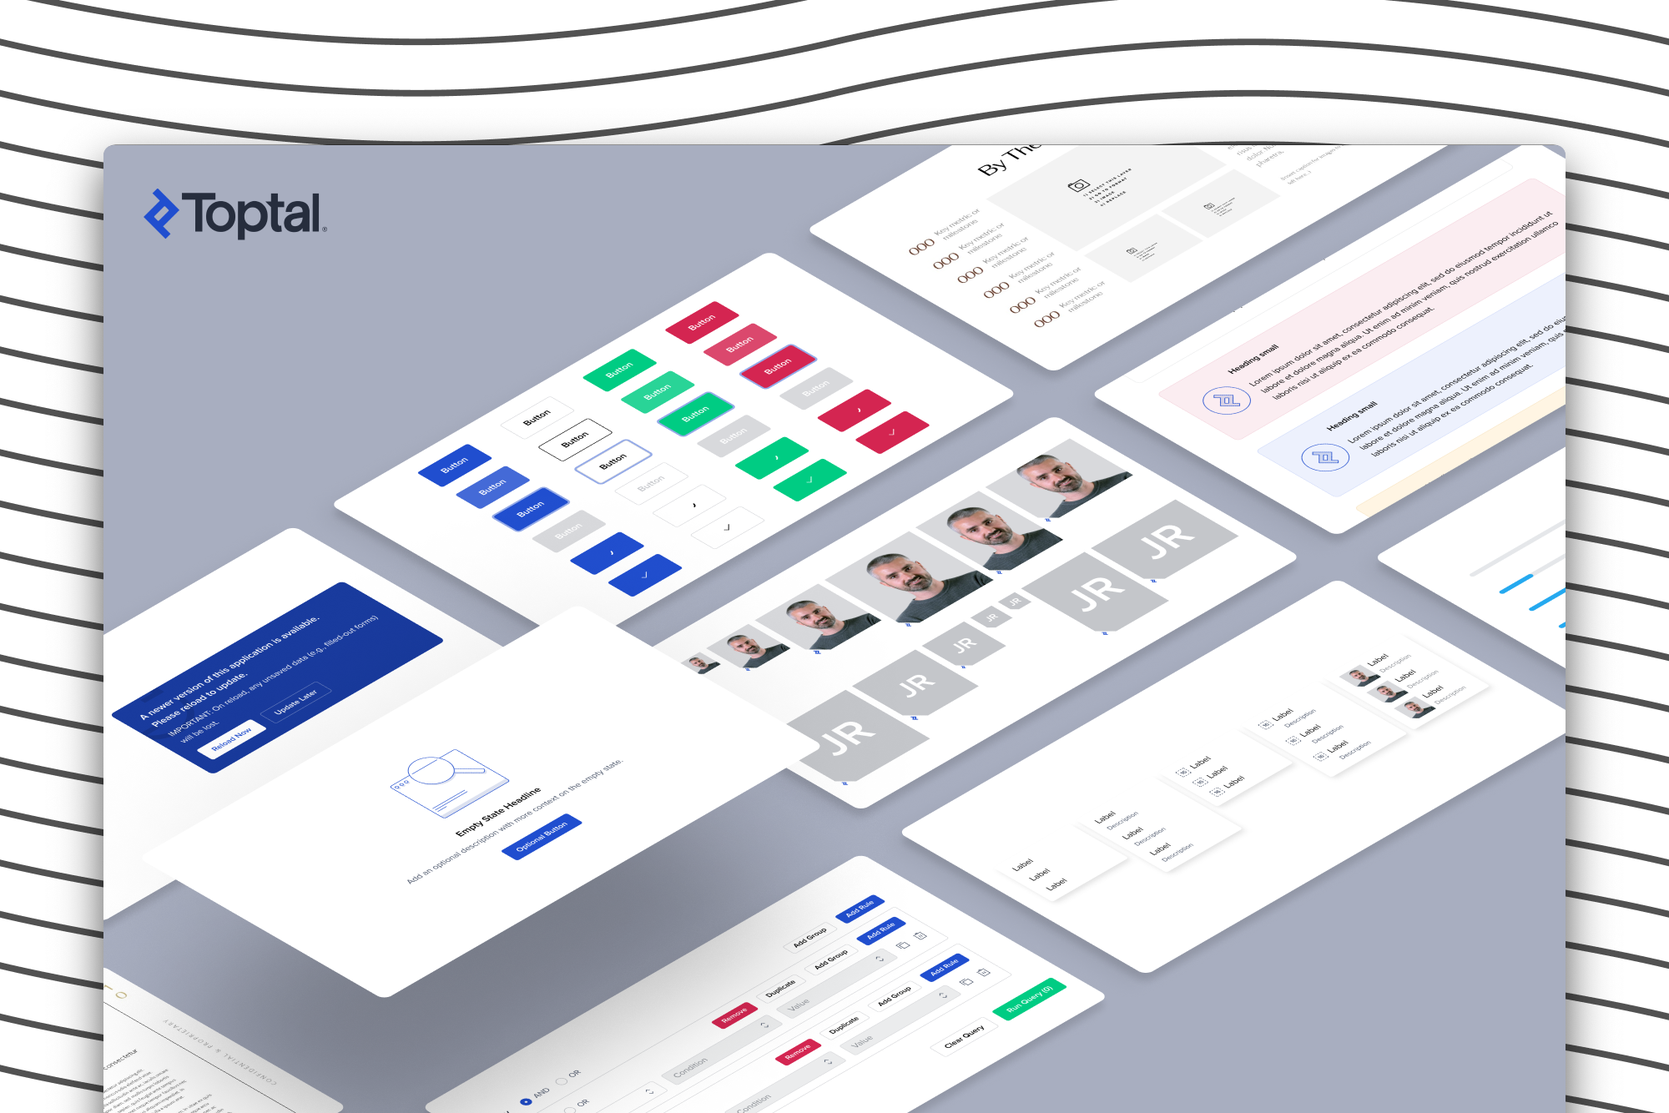
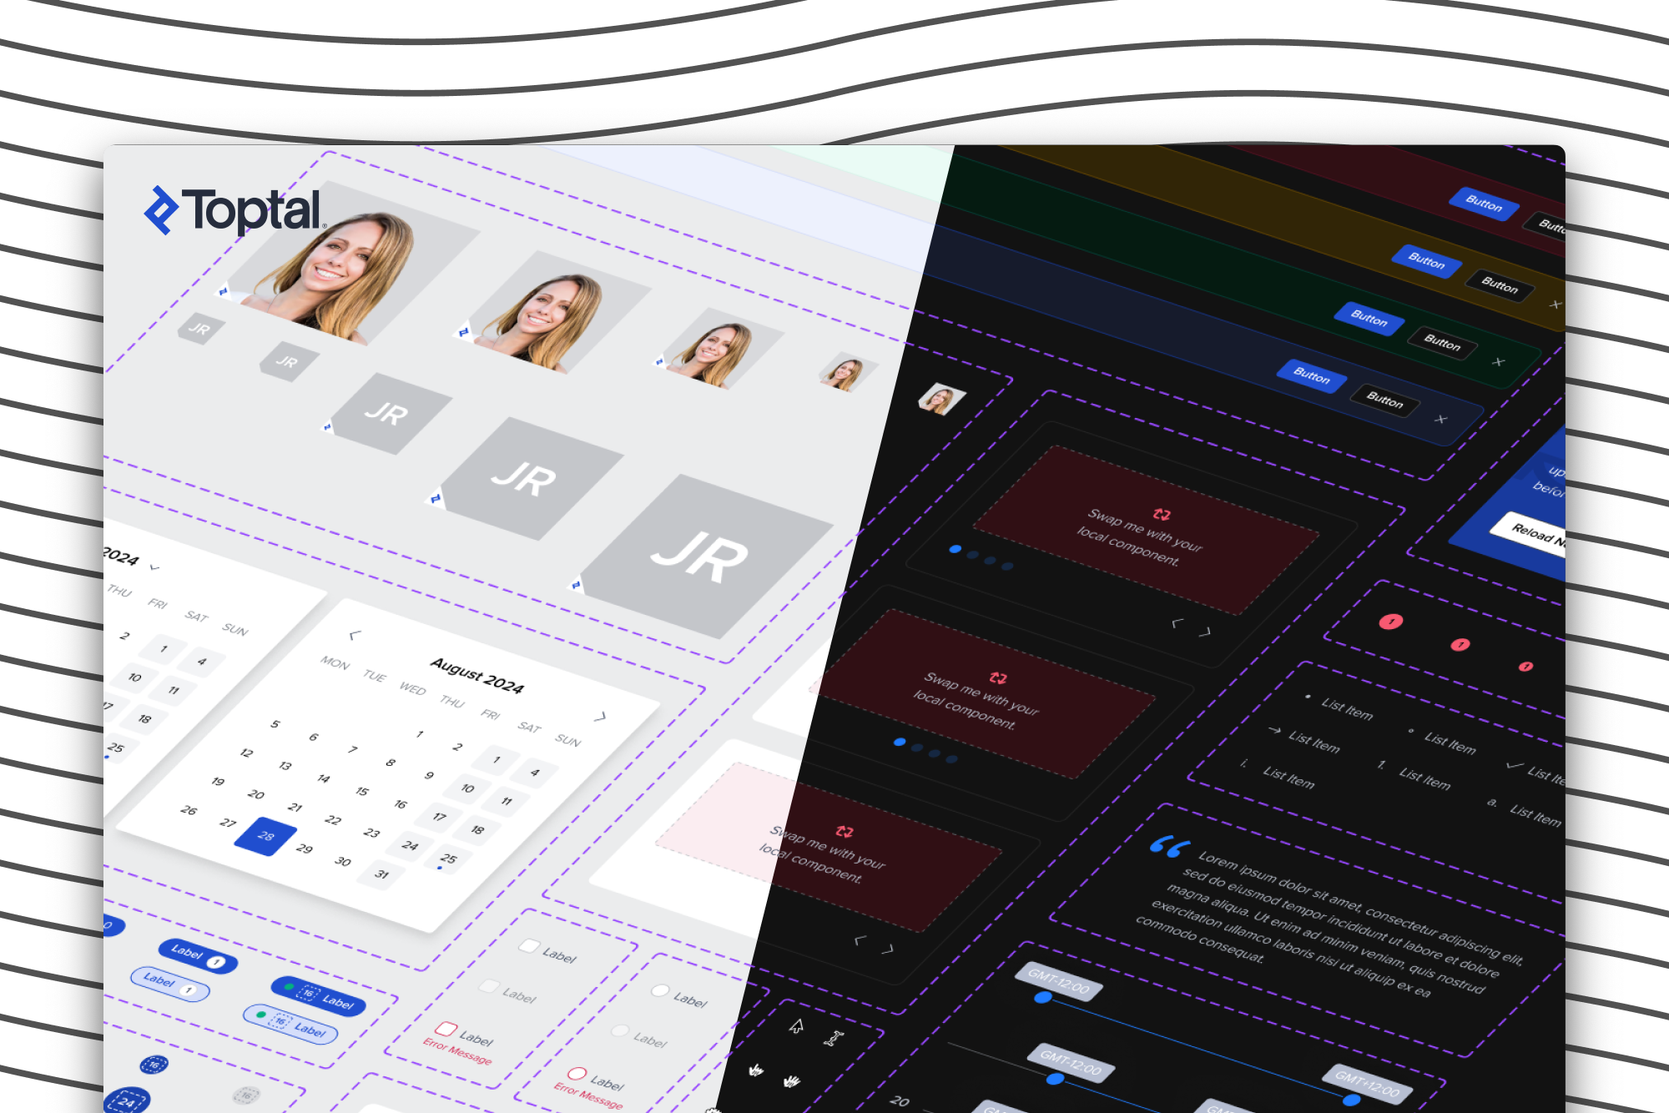
Hero changes imgs

diff --git a/folio_one_2.html b/folio_one_2.html
@@ -9,8 +9,8 @@
 	<meta http-equiv="X-UA-Compatible" content="IE=edge">
 	<title>Product Designer | Portfolio</title>
 	<meta name="viewport" content="width=device-width, initial-scale=1">
-	<meta name="description" content="Lead Experience Designer | Portfolio" />
-	<meta name="keywords" content="Designer, portfolio, experience, resume, user interface, mobile design, user experience, design services, product designer" />
+	<meta name="description" content="Senior Product Designer | Portfolio" />
+	<meta name="keywords" content="Designer, portfolio, design systems, user experience, resume, user interface, mobile design, experience, design services, product designer" />
 	<meta name="author" content="Matthew Vella" />
 
   	<!-- Facebook and Twitter integration -->
@@ -33,6 +33,8 @@
 	<link rel="stylesheet" href="css/animate.css">
 	<!-- Bootstrap CDN Icon Fonts-->
 	<link rel="stylesheet" href="https://cdn.jsdelivr.net/npm/bootstrap-icons@1.11.3/font/bootstrap-icons.min.css">
+	<!-- Lottie Animation library -->
+	<script src="https://cdnjs.cloudflare.com/ajax/libs/lottie-web/5.12.2/lottie.min.js" integrity="sha512-jEnuDt6jfecCjthQAJ+ed0MTVA++5ZKmlUcmDGBv2vUI/REn6FuIdixLNnQT+vKusE2hhTk2is3cFvv5wA+Sgg==" crossorigin="anonymous" referrerpolicy="no-referrer"></script>
     <!-- Google Fonts -->
     <link href="https://fonts.googleapis.com/css?family=Playfair+Display:400,700&display=swap" rel="stylesheet">
     <link href="https://fonts.googleapis.com/css?family=Abel&display=swap" rel="stylesheet">
@@ -89,8 +91,8 @@
 			<!-- Project Header -->
 			<div class="row text-center">
 				<div class="col-md-12">
-					<a href="https://appadvice.com/app/quitters-circle/981867763" target="_blank"><img src="images/logos/cl-logo-01.png" alt="Audi Logo" class="project-logo to-animate"></a>
-					<h1 class="to-animate">Revolutionizing Audi’s Digital Presence</h1>
+					<a href="http://toptal.com/" target="_blank"><img src="images/logos/cl-logo-10.png" alt="Toptal Logo" class="project-logo to-animate"></a>
+					<h1 class="to-animate">Building a Scalable System for the World's Top Talent Marketplace</h1>
 				</div>
 			</div>
 
@@ -98,12 +100,8 @@
 			<div class="row">
 				<div class="col-md-12">
 					<div class="project-hero to-animate">
-						<div class="col-md-12 to-animate video-container">
-							<video autoplay loop muted playsinline>
-								<source src="images/project_2_2.mp4" type="video/mp4" style="width: 100%; max-width: 1170px;">
-								<source src="images/project_2_2.webm" type="video/webm" style="width: 100%; max-width: 1170px;">
-								Your browser does not support the video tag.
-							</video>
+						<div class="col-md-12 to-animate text-center project-hero">
+							<img style="max-width: 100%;" src="images/project-0@2x.png" alt="hero base design system"/>
 						</div>
 					</div>
 				</div>
@@ -114,24 +112,24 @@
 			<div class="row">
 				<div class="col-md-3 text-left">
 					<p class="to-animate">My Responsibilities</p>
-					<p class="to-animate lighter"> Usability Audit <br/> UI/UX Design <br/> Prototyping <br/> Motion UI <br/> Documentation</p>
+					<p class="to-animate lighter"> Component Architecture <br/> Managed Libraries <br/> Documentation <br/> Governance</p>
 				</div>
 				<div class="col-md-3 text-left">
 					<p class="to-animate">Tools</p>
-					<p class="to-animate lighter">Sketch <br/> Miro <br/> Audi Design System <br/> Jira</p>
+					<p class="to-animate lighter">Figma ~ Figjam <br/> Jira ~ Confluence <br/> Storybook ~ Github <br/> Token Studio <br/></p>
 				</div>
 				<div class="col-md-3 text-left">
-					<p class="to-animate">Role</p>
-					<p class="to-animate lighter"> Senior UI/UX Designer</p>
+					<p class="to-animate">Roles</p>
+					<p class="to-animate lighter">Lead Product Designer <br/> Product Manager</p>
 				</div>
 				<div class="col-md-3 text-left">
 					<p class="to-animate">Project Length</p>
-					<p class="to-animate lighter">6 months</p>
+					<p class="to-animate lighter">2½ years</p>
 				</div>
 			</div>
 		</div>
 
-		<div class="divider-line"></div>
+		<div class="divider-line to-animate"></div>
 
 		<div class="row-spacer-m8"></div>
 	
@@ -140,19 +138,16 @@
 				<div class="col-md-2"></div>
 				<div class="col-md-8 to-animate">
 					<h2>Background</h2>
-					<p>In 2020, the COVID-19 pandemic forced Audi to close its showrooms, disrupting the car-buying experience. To adapt, Audi Business Innovation (ABI) set out to develop a digital platform that would recreate the showroom experience, seamlessly integrating online and offline touchpoints for a more cohesive audi purchasing journey.</p>
-					<p>I, together with a full-stack product team from Modus Create, joined forces with Audi Business Innovation, to bring this vision to life and redefine how customers explore and customize their Audi vehicles.</p>
+					<p>As Toptal experienced hypergrowth through 2022, it became a business requirement that the product practice had to scale to keep up with evolving company initiatives. While the early design team had established a foundational system, they were struggling with scaling it and bringing the much needed adoption across all teams and bring design consistency across their three main user-facing portals (Staff, Client, and Talent Portals), multiple internal tools (CMS Tool, TopTeam, TopTaste, TopShop), external tools (Time Tracker, Screenshot app), and numerous new initiatives.</p>
+					<p>With so many projects running in parallel, a lack of cohesion led to frequent custom designs that carried over into the implementation phase, increasing costs and technical debt, and reducing the ROI for every product-focused team member. Maintaining consistency became an ever-greater challenge as the company’s ecosystem continued to expand.</p>
 					<div class="row-spacer-m8"></div>
-					<h2>Objectives</h2>
-					<p>My objectives was to design and deliver, end-to-end user flows for two key feature applications: [1] the Automotive Visualization app, which enhanced the 3D car customization experience. [2] Overhauling the Audi & Partner Dealer Search, making it easier for customers to find dealerships, explore services, and plan their visit.</p>
-
 					<div class="row-spacer-m4"></div>
-
-					<h4>Responsibilities</h4>
-					<li>Gather and align stakeholder requirements across product, engineering, and marketing teams.</li>
-					<li>Participate in SAFe ceremonies (PI Planning, Sprint Planning, Standups, Reviews, Retros).</li>
-					<li>Collaborate closely with 3D engineers to embedd the automotive visualization experience.</li>
-					<li>Conduct UX audits and identify usability improvements for the Dealer Search flow.</li>
+					<h4>Key Achievements</h4>
+					<li>Increased component adoption rate from a low 18% to 60% across talent portal feature teams within the first six months.</li>
+					<li>Reduced the number of custom components created outside the system by 68%.</li>
+					<li>Implemented adoption metrics on Grafana, tracking component usage by platform, css overrides, and achieved a 100% visibility into system performance.</li>
+					<li>A new product initiative (Hireglobal) was build from scratch in just 2 months, using 92% of components from the design system.</li>
+					<li>Reduced component requests by 20% by enabling designers and developers to contribute directly to the system.</li>
 				</div>
 			</div>
 
@@ -160,7 +155,18 @@
 
 			<div class="row">
 				<div class="col-md-12 to-animate text-center project-hero">
-					<img style="max-width: 100%;" src="images/projects/qc/folio_four_01@2x.png" alt="emotions"/>
+						<div id="animation-container" style="width: 554px; height: 430px;">
+							<script>
+								var animation = lottie.loadAnimation({
+								  container: document.getElementById('animation-container'), // The container to render the animation
+								  renderer: 'svg', // Render type (svg, canvas, or html)
+								  loop: true, // Animation loop
+								  autoplay: true, // Start playing automatically
+								  path: 'animation/project3_logo.json' // Path to your JSON file
+								});
+							</script>
+						</div>
+					
 				</div>
 			</div>
 
@@ -209,11 +215,11 @@
 		<div class="row">
 			<div class="col-md-6 to-animate text-center project-hero">
 				<figcaption class="image-caption">💡 Exploration flows that were not considered</figcaption>
-				<img style="max-width: 100%;" src="images/projects/qc/folio_four_02@2x.png" alt="quitter circle"/>
+				<img style="max-width: 100%;" src="images/projects/qc/folio_four_02@2x.png" alt="onboarding quitter circle"/>
 			</div>
 			<div class="col-md-6 to-animate text-center project-hero">
 				<figcaption class="image-caption">😐 The implementation for MVP launch</figcaption>
-				<img style="max-width: 100%;" src="images/projects/qc/folio_four_02b@2x.png" alt="quitter circle"/>
+				<img style="max-width: 100%;" src="images/projects/qc/folio_four_02b@2x.png" alt="onboarding quitter circle"/>
 			</div>
 		</div>
 
@@ -229,7 +235,7 @@
 
 					<div class="row">
 						<div class="col-md-12 to-animate text-center project-hero">
-							<img style="max-width: 100%;" src="images/projects/qc/folio_four_06@2x.png" alt="journey mapping"/>
+							<img style="max-width: 100%;" src="images/projects/qc/folio_four_06@2x.png" alt="gamified homepage"/>
 						</div>
 					</div>
 
@@ -265,6 +271,57 @@
 			<div class="row">
 				<div class="col-md-2"></div>
 				<div class="col-md-8 to-animate">
+					<h2>Smoke Log Flow</h2>
+					<p>The Smoke Log was a crucial feature designed to encourage daily engagement by helping users log their smoking activities. By consistently tracking when, where, and why they smoked, users could reflect on their habits and recognize patterns that might be hindering their progress.</p>
+					<p>This log wasn’t just about self-awareness, it also served as a valuable tool for professional guidance. When consulting a healthcare professional, users could review their smoking history together and identify lifestyle, social, or emotional triggers. This data driven approach allowed for personalized advice and actionable changes.</p>
+				</div>
+			</div>
+		</div>
+
+		<div class="row-spacer-m8"></div>
+
+		<div class="row">
+			<div class="col-md-12 to-animate text-center project-hero">
+				<img style="max-width: 100%;" src="images/projects/qc/SmokeLog@2x.png" alt="visual ui kit"/>
+			</div>
+		</div>
+
+		<div class="row-spacer-m8"></div>
+
+		<div class="container">
+			<div class="row">
+				<div class="col-md-2"></div>
+				<div class="col-md-8 to-animate">
+					<h2>A design flaw that led to no logs</h2>
+					<p>When the MVP was launched, a small group of users began signing up through Pfizer’s medical partners. Early adoption showed promise, however users encountered a critical issue. There was a low completion rate on the most essential feature which is the Smoke Log.</p>
+					<p>The smoke log was designed to be a daily routine for self-awareness and behavior change. Our roadmap already included plans to strengthen habit-forming UX, but we hadn’t anticipated such a fundamental flaw in the existing design.</p>
+					<p>Usability testing and behavior analytics revealed the root of the problem: most users simply couldn’t find the Smoke Log. The icon representing it was often mistaken for the app’s logo, making it unclear that it was an interactive feature.</p>
+					<li>80% of the users failed to complete the smoke log task on their first attempt.</li>
+					<li>Tap through rate on the Smoke Log icon was low, due to poor visual clarity.</li>
+					<li>Time on task increased, users spending long time trying to figure out what the icon represented before taking any action.</li>
+					
+					<div class="row-spacer-m4"></div>
+					
+					<h3>Action items</h3>
+					<p>This led us on improving engagement through push notifications, testing different messages and timings to remind users to log their activity and help boost completion rates.</p>
+					<p>I also redesigned the top navigation area and made the smoke log entry more clear.The settings icon was replaced with a menu icon and moved to the left for less important actions. The Smoke Log was renamed to Log Entry, moved to the right, and made easier to find.</p>
+				</div>
+			</div>
+
+			<div class="row">
+				<div class="col-md-12 to-animate text-center project-hero">
+					<img style="max-width: 100%;" src="images/projects/qc/folio_four_07@2x.png" alt="visual ui kit"/>
+				</div>
+			</div>
+
+		</div>
+
+		<div class="row-spacer-m8"></div>
+
+		<div class="container">
+			<div class="row">
+				<div class="col-md-2"></div>
+				<div class="col-md-8 to-animate">
 					<h2>Visual Direction & Consistency</h2>
 					<p>Pfizer had an established marketing identity, providing a strong foundation for Quitter’s Circle’s visual language. So, I  took what was there and built a UI Kit in Sketch to make sure the digital experience adheres to consistency and that it support a full range of interaction states, accessibility needs, and behavioral cues.</p>
 				</div>
@@ -277,8 +334,6 @@
 					<img style="max-width: 100%;" src="images/projects/qc/folio_four_03@2x.png" alt="visual ui kit"/>
 				</div>
 			</div>
-
-
 		</div>
 
 		
@@ -289,53 +344,63 @@
 
 	</section>
 	
-	<section id="fh5co-services" data-section="audi">
+	<section id="fh5co-explore" data-section="audi">
 		<div class="to-animate container">
 			<div class="row">
 				<div class="col-md-12 to-animate cardTestimonial">
-					<h2 class="to-animate testimonials">"A reliable teammate who consistently delivers beyond expectations and excels at solving complex design challenges."</h2>
-					<p>I had the pleasure of working with Matthew for a couple of months on the Audi Business Innovation projects, and a few key qualities stood out. Matthew is a naturally curious Product Designer with a passion for UI/UX, new technologies, and digital products. He is a great teammate—reliable, responsible, and consistently delivering beyond expectations. He also has a strong ability to tackle even the toughest design and product challenges, solving them with ease. It was truly a pleasure working with Matthew at Modus Create, and I hope our paths cross again in the future.</p>
+					<h2 class="to-animate testimonials">"A standout designer and leader, excelling in proactive problem-solving, precise documentation, and team collaboration."</h2>
+					<p>I had the pleasure of working with Matt, who led the design system at Toptal, and I can't speak highly enough of his contributions. Matt is a fantastic designer and collaborator. His documentation is precise and thorough, which has ensured consistency and clarity across projects. He's exceptional at managing the design team's needs while keeping a strong pulse on the business and product evolution.
+					<br/><br/>
+					What truly stands out about Matt is his proactive nature. He consistently delivers above expectations, pushing for solutions beyond the brief. His ability to anticipate and address challenges before they arise sets him apart as a leader. Beyond his technical skills, Matt is simply a great person to work with. He is approachable and dependable and uplifts the team around him.
+					</p>
 					<div class="profile">
-						<img src="images/avatars/dom_hiz.jpeg" alt="Dominik Hizar" class="avatar">
+						<img src="images/avatars/ale_dju.jpeg" alt="Alek Djuric" class="avatar">
 						<div class="info">
-							<div class="name">Dominik Hizar</div>
-							<div class="role">Senior Scrum Master</div>
+							<div class="name">Alek Djuric</div>
+							<div class="role">Director of Product Design</div>
 						</div>
 					</div>
 				</div>
 				<div class="col-md-12 to-animate cardTestimonial">
-					<h2 class="to-animate testimonials">"Matt is a highly skilled expert who brings fresh ideas and consistently improves his work. Communicative, open to feedback, and a pleasure to work with."</h2>
-					<p>Working with Matt is a pure pleasure. He is a real expert in his field. You can entrust him entirely with his part of the work. He always has new ideas of what can be improved. At the same time, he is very communicative, always willing to listen, and is open to feedback or suggestions. Above all of that, he is a great person overall.</p>
+					<h2 class="to-animate testimonials">"A truly talented and humble designer who transformed our design system"</h2>
+					<p>I had the pleasure of working with Matt on the Picasso Design System, where I served as an engineering manager, and Matt led the design efforts. Collaborating with Matt was an exceptional experience; he is not only a talented and experienced designer but also a humble and approachable team player.
+					<br/><br/>
+					Before Matt joined our team, we faced recurring issues with inconsistencies across our products due to misalignment on design standards. However, once Matt took charge, he effectively documented the design system and ensured product designers adhered to it. As a result, our inconsistencies diminished, and for the past year, I haven't encountered any issues.
+					<br/><br/>
+					Matt was a fantastic partner to the engineering team. He consistently considered our perspective, adapting designs to follow UI best practices while making them easier to implement. He was always available to answer questions, offering full support to my engineers.
+					<br/><br/>
+					I would gladly work with Matt again and highly recommend him for any design leadership role.</p>
 					<div class="profile">
-						<img src="images/avatars/kam_sol.jpeg" alt="Kamil Solomon" class="avatar">
+						<img src="images/avatars/ole_nec.jpeg" alt="Oleksandr Nechai" class="avatar">
 						<div class="info">
-							<div class="name">Kamil Solomon</div>
-							<div class="role">Full Stack Engineer</div>
+							<div class="name">Oleksandr Nechai</div>
+							<div class="role">Engineering Manager</div>
 						</div>
 					</div>
 				</div>
 				<div class="col-md-12 to-animate cardTestimonial">
-					<h2 class="to-animate testimonials">"Matthew is efficient, collaborative, and impactful designer—a true asset to Audi Business Innovation."</h2>
-					<p>Matthew has been a strong contributor to the Audi design team, working efficiently and fostering collaboration to refine ideas. He navigates ambiguity with ease, supports fellow designers, and elevates team efforts. His impact on Audi Business Innovation has been a revelation—I’d love to work with him again.</p>
+					<h2 class="to-animate testimonials">"Matthew is a skilled designer with strong Design Systems expertise, excellent collaboration skills, and a keen eye for detail. Highly recommended for his ability to balance UX and technical needs effectively."</h2>
+					<p>Matthew is a highly experienced designer with a solid understanding of Design Systems and exceptional Figma skills. His attention to detail and ability to self-organize made collaborating with him on the implementation of the design system with the engineering team a very positive experience.
+					<br/><br/>
+					He was able to work effectively with both business stakeholders and software engineers, balancing user experience needs with technical feasibility. In doing so, he successfully laid the foundation for an excellent and efficient Design System. I highly recommend Matthew to any company due to his strong soft skills and proven expertise.</p>
 					<div class="profile">
-						<img src="images/avatars/sin_sch.jpeg" alt="Sina Schmidt" class="avatar">
+						<img src="images/avatars/dio_sai.jpeg" alt="Diogo Saito Takeuchi" class="avatar">
 						<div class="info">
-							<div class="name">Sina Schmidt</div>
-							<div class="role">CX Designer</div>
+							<div class="name">Diogo Saito Takeuchi</div>
+							<div class="role">Technical Product Manager</div>
 						</div>
 					</div>
 				</div>
 				</div>
 			</div>
 		</div>
-	</section> 
+	</section>
         
 
 	<div id="fh5co-footer" role="contentinfo">
 		<div class="container">
 			<div class="row">
 				<div class="col-md-4 to-animate">
-					<h4 class="section-title">Menu</h4>
                     <h2 class="section-title"><a href="/">Home</a></h2>
 					<h2 class="section-title"><a href="process.html">Process</a></h2>
                     <br>

diff --git a/folio_four.html b/folio_four.html
@@ -9,8 +9,8 @@
 	<meta http-equiv="X-UA-Compatible" content="IE=edge">
 	<title>Product Designer | Portfolio</title>
 	<meta name="viewport" content="width=device-width, initial-scale=1">
-	<meta name="description" content="Lead Experience Designer | Portfolio" />
-	<meta name="keywords" content="Designer, portfolio, experience, resume, user interface, mobile design, user experience, design services, product designer" />
+	<meta name="description" content="Senior Product Designer | Portfolio" />
+	<meta name="keywords" content="Designer, portfolio, design systems, user experience, resume, user interface, mobile design, experience, design services, product designer" />
 	<meta name="author" content="Matthew Vella" />
 
   	<!-- Facebook and Twitter integration -->
@@ -358,7 +358,6 @@
 		<div class="container">
 			<div class="row">
 				<div class="col-md-4 to-animate">
-					<h4 class="section-title">Menu</h4>
                     <h2 class="section-title"><a href="/">Home</a></h2>
 					<h2 class="section-title"><a href="process.html">Process</a></h2>
                     <br>

diff --git a/index.html b/index.html
@@ -323,7 +323,6 @@
 		<div class="container">
 			<div class="row">
 				<div class="col-md-4 to-animate">
-					<h4 class="section-title">Some More</h4>
 					<h2 class="section-title"><a href="about.html">About Me</a></h2>
                     <h2 class="section-title"><a href="process.html">Process</a></h2>
                     <br>

diff --git a/about.html b/about.html
@@ -209,7 +209,6 @@
 		<div class="container">
 			<div class="row">
 				<div class="col-md-4 to-animate">
-					<h4 class="section-title">Menu</h4>
 					<h2 class="section-title"><a href="/">Home</a></h2>
                     <h2 class="section-title"><a href="process.html">Process</a></h2>
                     <br>

diff --git a/folio_three.html b/folio_three.html
@@ -395,7 +395,6 @@
 		<div class="container">
 			<div class="row">
 				<div class="col-md-4 to-animate">
-					<h4 class="section-title">Menu</h4>
                     <h2 class="section-title"><a href="/">Home</a></h2>
 					<h2 class="section-title"><a href="process.html">Process</a></h2>
                     <br>

diff --git a/process.html b/process.html
@@ -221,7 +221,6 @@
 		<div class="container">
 			<div class="row">
 				<div class="col-md-4 to-animate">
-					<h4 class="section-title">Menu</h4>
                     <h2 class="section-title"><a href="/">Home</a></h2>
 					<h2 class="section-title"><a href="about.html">About me</a></h2>
                     <br>
